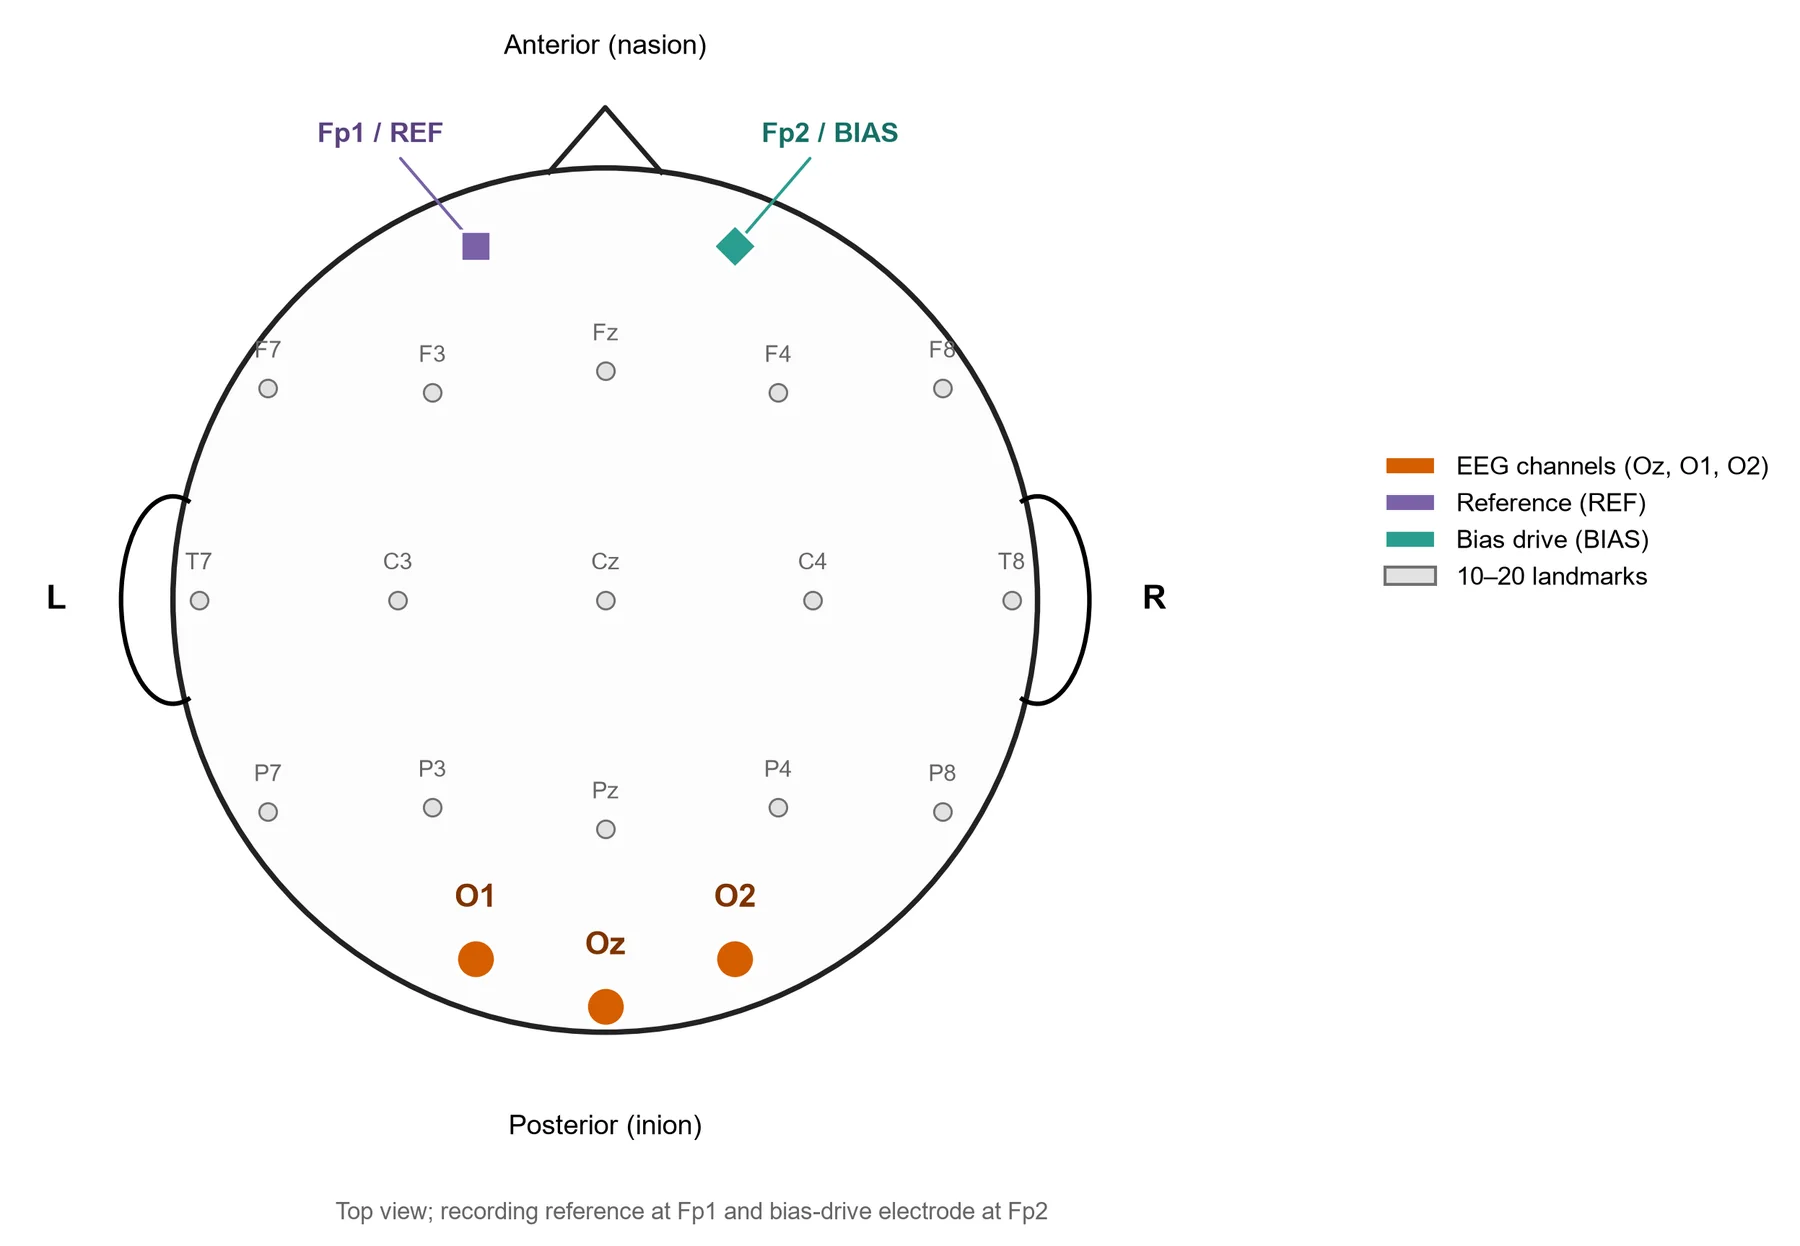
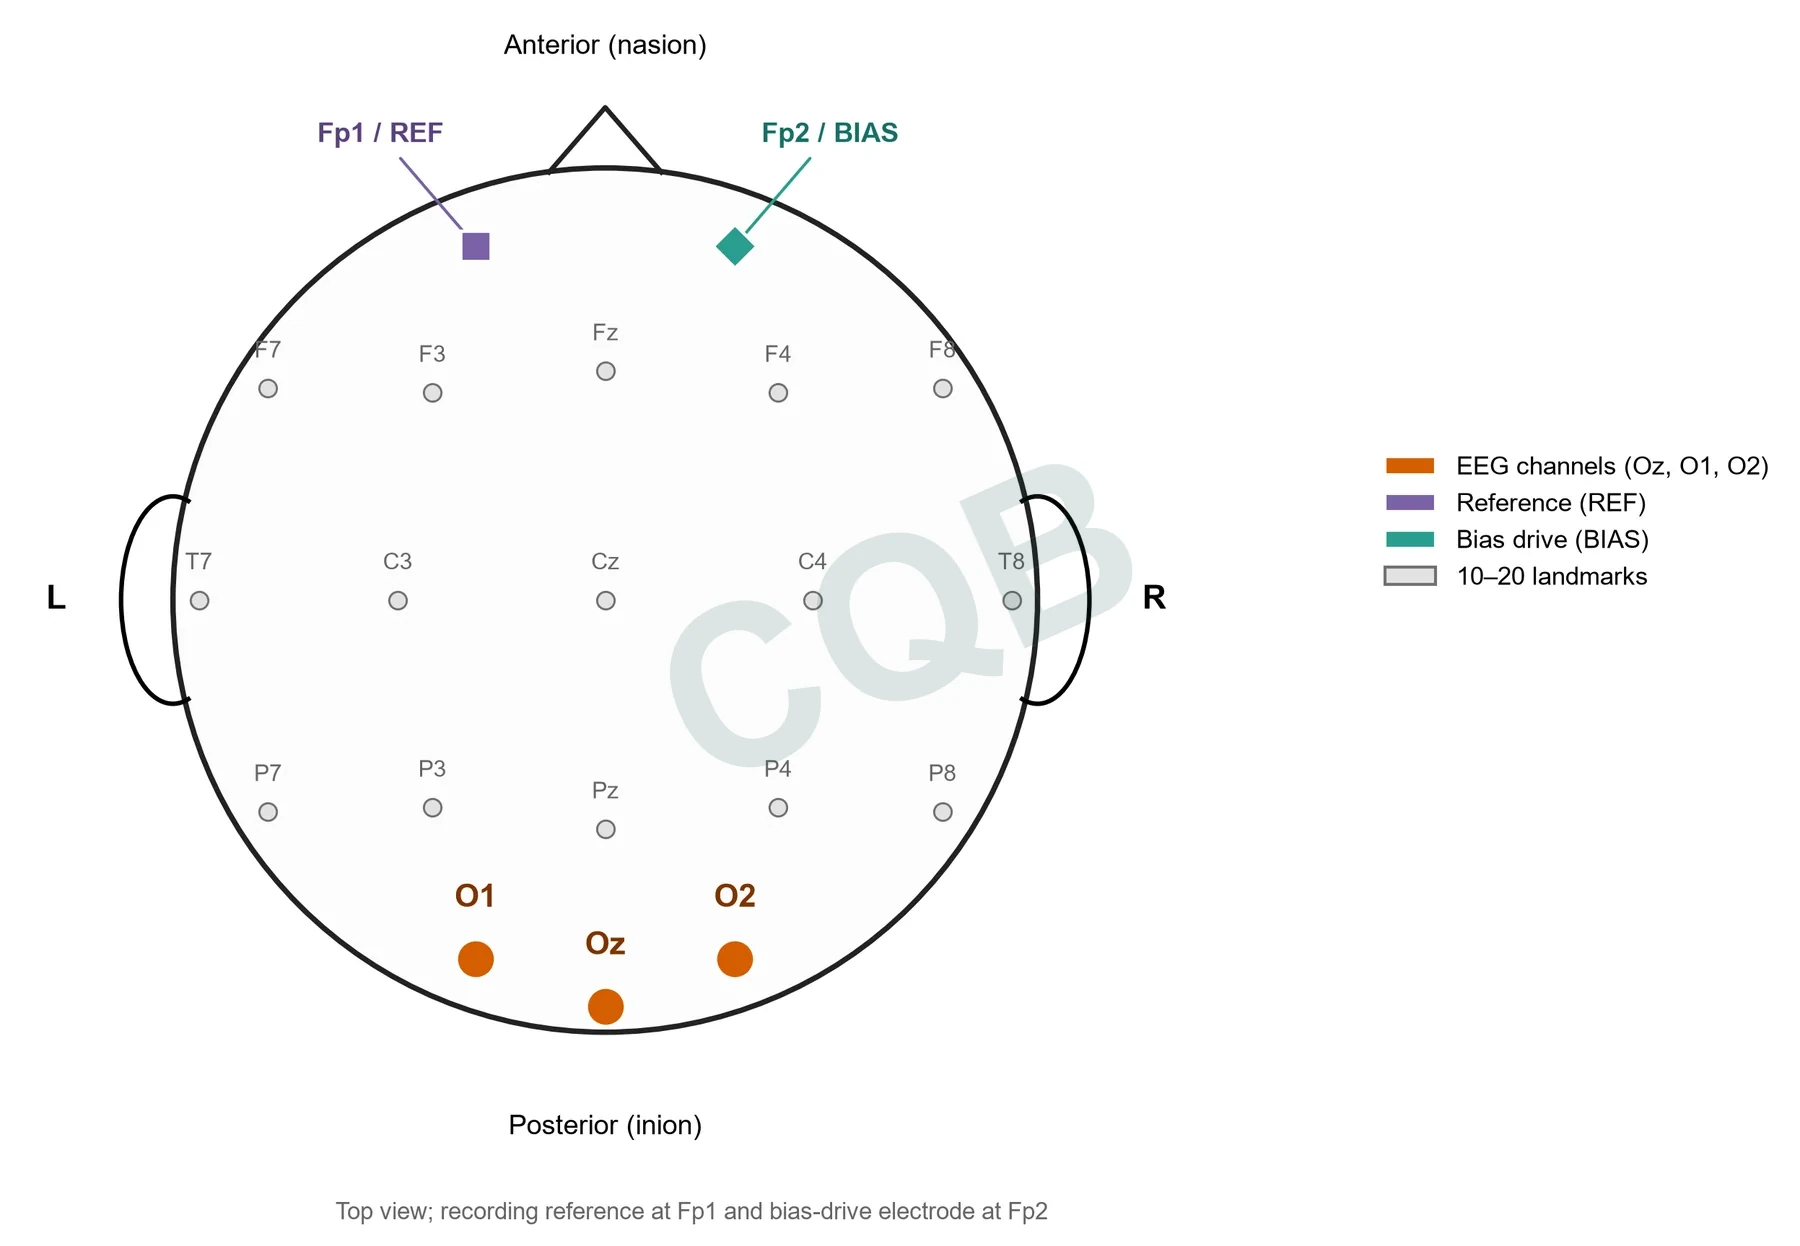
Add CQB watermarks to published images

Changed region(s): [[0.3733, 0.366, 0.6533, 0.6404]]

diff --git a/index.html b/index.html
@@ -13,7 +13,7 @@
       property="og:description"
       content="从64通道脑电采集到4通道经颅电刺激：硬件设计、嵌入式开发与实验验证。"
     />
-    <meta property="og:image" content="assets/images/eeg-experiment.webp" />
+    <meta property="og:image" content="assets/images/eeg-experiment.webp?v=cqb-20260907" />
     <title>陈庆标｜脑电采集与经颅电刺激作品集</title>
     <link rel="icon" href="favicon.svg" type="image/svg+xml" />
     <link rel="stylesheet" href="styles.css?v=hero-20260907" />
@@ -68,7 +68,7 @@
         <div class="hero-visual reveal" data-delay="120">
           <div class="hero-frame">
             <img
-              src="assets/images/eeg-experiment.webp"
+              src="assets/images/eeg-experiment.webp?v=cqb-20260907"
               alt="佩戴脑电帽进行视觉刺激与脑电采集实验"
               width="2000"
               height="1500"
@@ -165,12 +165,12 @@
               <button
                 class="image-button"
                 type="button"
-                data-lightbox="assets/images/eeg-hardware.webp"
+                data-lightbox="assets/images/eeg-hardware.webp?v=cqb-20260907"
                 data-caption="多通道脑电采集硬件与电极接口板"
                 aria-label="放大脑电采集硬件图片"
               >
                 <img
-                  src="assets/images/eeg-hardware.webp"
+                  src="assets/images/eeg-hardware.webp?v=cqb-20260907"
                   alt="脑电采集主板与多通道电极接口板"
                   width="1500"
                   height="2000"
@@ -228,7 +228,7 @@
         <div class="experiment-strip reveal">
           <div class="experiment-image">
             <img
-              src="assets/images/eeg-experiment.webp"
+              src="assets/images/eeg-experiment.webp?v=cqb-20260907"
               alt="脑电帽、视觉刺激屏幕、采集上位机和采集硬件组成的实验现场"
               width="2000"
               height="1500"
@@ -255,7 +255,7 @@
             <h4 id="alpha-flow">实验流程</h4>
             <p>分别记录睁眼和闭眼状态下的脑电，用事件标记定位记录时段，对比两种状态的 8–13 Hz Alpha 功率。</p>
             <figure class="experiment-montage" id="alpha-electrode-layout">
-              <button class="image-button paper-image" type="button" data-lightbox="assets/images/alpha-montage.webp" data-caption="枕区通道 Oz、O1、O2；Fp1 为 REF，Fp2 为 BIAS" aria-label="放大 Alpha 电极布置图"><img src="assets/images/alpha-montage.webp" alt="Alpha实验电极布置：Oz、O1、O2枕区通道与参考、偏置电极" loading="lazy" /></button>
+              <button class="image-button paper-image" type="button" data-lightbox="assets/images/alpha-montage.webp?v=cqb-20260907" data-caption="枕区通道 Oz、O1、O2；Fp1 为 REF，Fp2 为 BIAS" aria-label="放大 Alpha 电极布置图"><img src="assets/images/alpha-montage.webp?v=cqb-20260907" alt="Alpha实验电极布置：Oz、O1、O2枕区通道与参考、偏置电极" loading="lazy" /></button>
               <figcaption>电极放置位置</figcaption>
             </figure>
             <ol class="experiment-timeline" aria-label="Alpha 单轮实验时间线">
@@ -264,7 +264,7 @@
               <li><strong>2 秒</strong><span>休息</span></li>
             </ol>
               <figure class="experiment-protocol">
-                <button class="image-button paper-image" type="button" data-lightbox="assets/images/alpha-protocol.webp" data-caption="Alpha 实验流程及睁闭眼脑电波形" aria-label="放大 Alpha 实验流程图"><img src="assets/images/alpha-protocol.webp" alt="3秒准备、6秒记录、2秒休息的实验流程，以及睁闭眼条件下的Oz、O1、O2脑电波形" loading="lazy" /></button>
+                <button class="image-button paper-image" type="button" data-lightbox="assets/images/alpha-protocol.webp?v=cqb-20260907" data-caption="Alpha 实验流程及睁闭眼脑电波形" aria-label="放大 Alpha 实验流程图"><img src="assets/images/alpha-protocol.webp?v=cqb-20260907" alt="3秒准备、6秒记录、2秒休息的实验流程，以及睁闭眼条件下的Oz、O1、O2脑电波形" loading="lazy" /></button>
                 <figcaption>实验时序与时域波形</figcaption>
               </figure>
           </section>
@@ -277,7 +277,7 @@
               <div><strong>3 / 3</strong><span>枕区通道均增强</span></div>
             </div>
             <figure class="experiment-result">
-              <button class="image-button paper-image" type="button" data-lightbox="assets/images/alpha-results.webp" data-caption="Alpha 结果：A 功率谱；B 通道功率；C 配对变化；D 时间变化" aria-label="放大 Alpha 实验结果图"><img src="assets/images/alpha-results.webp" alt="闭眼条件在10.5 Hz形成峰值，三个枕区通道Alpha功率均增强，平均配对变化为9.05 dB" loading="lazy" /></button>
+              <button class="image-button paper-image" type="button" data-lightbox="assets/images/alpha-results.webp?v=cqb-20260907" data-caption="Alpha 结果：A 功率谱；B 通道功率；C 配对变化；D 时间变化" aria-label="放大 Alpha 实验结果图"><img src="assets/images/alpha-results.webp?v=cqb-20260907" alt="闭眼条件在10.5 Hz形成峰值，三个枕区通道Alpha功率均增强，平均配对变化为9.05 dB" loading="lazy" /></button>
               <figcaption>频域结果与 Alpha 功率变化</figcaption>
             </figure>
             <ul class="experiment-findings">
@@ -309,7 +309,7 @@
               <li><strong>3 秒</strong><span>休息</span></li>
             </ol>
             <figure class="experiment-protocol">
-              <button class="image-button paper-image" type="button" data-lightbox="assets/images/ssvep-protocol.webp" data-caption="SSVEP 单轮流程：2秒注视、6秒刺激、3秒休息" aria-label="放大 SSVEP 实验流程图"><img src="assets/images/ssvep-protocol.webp" alt="SSVEP实验时间线，以及与刺激开始、结束时刻对齐的三通道脑电" loading="lazy" /></button>
+              <button class="image-button paper-image" type="button" data-lightbox="assets/images/ssvep-protocol.webp?v=cqb-20260907" data-caption="SSVEP 单轮流程：2秒注视、6秒刺激、3秒休息" aria-label="放大 SSVEP 实验流程图"><img src="assets/images/ssvep-protocol.webp?v=cqb-20260907" alt="SSVEP实验时间线，以及与刺激开始、结束时刻对齐的三通道脑电" loading="lazy" /></button>
               <figcaption>实验时序与时域波形</figcaption>
             </figure>
           </section>
@@ -322,7 +322,7 @@
               <div><strong>0.5–6 <small>秒</small></strong><span>刺激期频谱分析窗口</span></div>
             </div>
             <figure class="experiment-result">
-              <button class="image-button paper-image" type="button" data-lightbox="assets/images/ssvep-results.webp" data-caption="SSVEP 结果：A 阶段频谱；B 通道频谱；C 逐轮信噪比；D 时频响应" aria-label="放大 SSVEP 实验结果图"><img src="assets/images/ssvep-results.webp" alt="刺激期15 Hz峰值增强，三个通道逐轮信噪比为正，时频图呈现持续15 Hz能量带" loading="lazy" /></button>
+              <button class="image-button paper-image" type="button" data-lightbox="assets/images/ssvep-results.webp?v=cqb-20260907" data-caption="SSVEP 结果：A 阶段频谱；B 通道频谱；C 逐轮信噪比；D 时频响应" aria-label="放大 SSVEP 实验结果图"><img src="assets/images/ssvep-results.webp?v=cqb-20260907" alt="刺激期15 Hz峰值增强，三个通道逐轮信噪比为正，时频图呈现持续15 Hz能量带" loading="lazy" /></button>
               <figcaption>频域结果与刺激相关时频响应</figcaption>
             </figure>
             <ul class="experiment-findings">
@@ -363,7 +363,7 @@
             </dl>
           </div>
           <div class="video-shell reveal" data-delay="100">
-            <video controls playsinline preload="none" poster="assets/images/eeg-experiment.webp" aria-label="脑电采集系统实机演示">
+            <video controls playsinline preload="none" poster="assets/images/eeg-experiment.webp?v=cqb-20260907" aria-label="脑电采集系统实机演示">
               <source src="assets/video/eeg-demo.mp4" type="video/mp4" />
               你的浏览器不支持 HTML5 视频。<a href="assets/video/eeg-demo.mp4">下载脑电演示视频</a>
             </video>
@@ -400,8 +400,8 @@
           <div class="section-kicker reveal"><span>02</span><p>STIMULATION HARDWARE &amp; VALIDATION</p></div>
           <div class="hardware-grid">
             <figure class="hardware-photo reveal">
-              <button class="image-button" type="button" data-lightbox="assets/images/electrical-stimulation-hardware.webp" data-caption="经颅电刺激仪原型机：串口屏、主控及多通道输出电路" aria-label="放大经颅电刺激仪硬件图片">
-                <img src="assets/images/electrical-stimulation-hardware.webp" alt="经颅电刺激仪内部四层电路板与多模式选择串口屏" loading="lazy" />
+              <button class="image-button" type="button" data-lightbox="assets/images/electrical-stimulation-hardware.webp?v=cqb-20260907" data-caption="经颅电刺激仪原型机：串口屏、主控及多通道输出电路" aria-label="放大经颅电刺激仪硬件图片">
+                <img src="assets/images/electrical-stimulation-hardware.webp?v=cqb-20260907" alt="经颅电刺激仪内部四层电路板与多模式选择串口屏" loading="lazy" />
                 <span class="zoom-hint">点击查看全图 ↗</span>
               </button>
               <figcaption><span>原型机实物</span><small>主控 / DDS / 恒流输出 / 串口屏</small></figcaption>
@@ -420,8 +420,8 @@
           </div>
           <div class="stimulation-evidence reveal">
             <figure>
-              <button class="image-button" type="button" data-lightbox="assets/images/electrical-stimulation-experiment.webp" data-caption="经颅电刺激设备实验现场与电极连接布置" aria-label="放大电刺激实验现场图片">
-                <img src="assets/images/electrical-stimulation-experiment.webp" alt="实验参与者佩戴电极帽，经颅电刺激原型机置于旁侧并连接电极线" loading="lazy" />
+              <button class="image-button" type="button" data-lightbox="assets/images/electrical-stimulation-experiment.webp?v=cqb-20260907" data-caption="经颅电刺激设备实验现场与电极连接布置" aria-label="放大电刺激实验现场图片">
+                <img src="assets/images/electrical-stimulation-experiment.webp?v=cqb-20260907" alt="实验参与者佩戴电极帽，经颅电刺激原型机置于旁侧并连接电极线" loading="lazy" />
                 <span class="zoom-hint">点击查看全图 ↗</span>
               </button>
               <figcaption>实验现场 / 电极连接与设备布置</figcaption>
@@ -431,7 +431,7 @@
               <h2>查看原型机<br />实际运行。</h2>
               <p>从硬件实物到设备操作，视频记录经颅电刺激系统的实机演示过程。</p>
               <div class="video-shell">
-                <video controls playsinline preload="none" poster="assets/images/electrical-stimulation-hardware.webp" aria-label="经颅电刺激仪实机演示">
+                <video controls playsinline preload="none" poster="assets/images/electrical-stimulation-hardware.webp?v=cqb-20260907" aria-label="经颅电刺激仪实机演示">
                   <source src="assets/video/electrical-stimulation-demo.mp4" type="video/mp4" />
                   你的浏览器不支持 HTML5 视频。<a href="assets/video/electrical-stimulation-demo.mp4">下载电刺激演示视频</a>
                 </video>

diff --git a/README.md b/README.md
@@ -9,6 +9,8 @@
 
 Alpha / SSVEP 介绍嵌入脑电项目正文，每个实验依次展示“实验流程 → 实验结果分析 → 可以用来做什么”，采用大标题、18 px 正文和大幅结果图；参考资料可展开查看。不新增实验导航入口，不包含个人简介。图示为 Oz、O1、O2 三通道记录，不能替代 64 通道整机计量验证。SSVEP 不声称已完成多目标脑机接口；电刺激部分不作临床疗效推断。
 
+公开图片已写入 CQB 水印；无水印备份保存在本地 `.preview/original-images/`，不会发布到 GitHub Pages。
+
 ## 本地预览
 
 直接打开 `index.html` 即可浏览。为避免浏览器对本地资源的限制，也可以在本目录运行：
